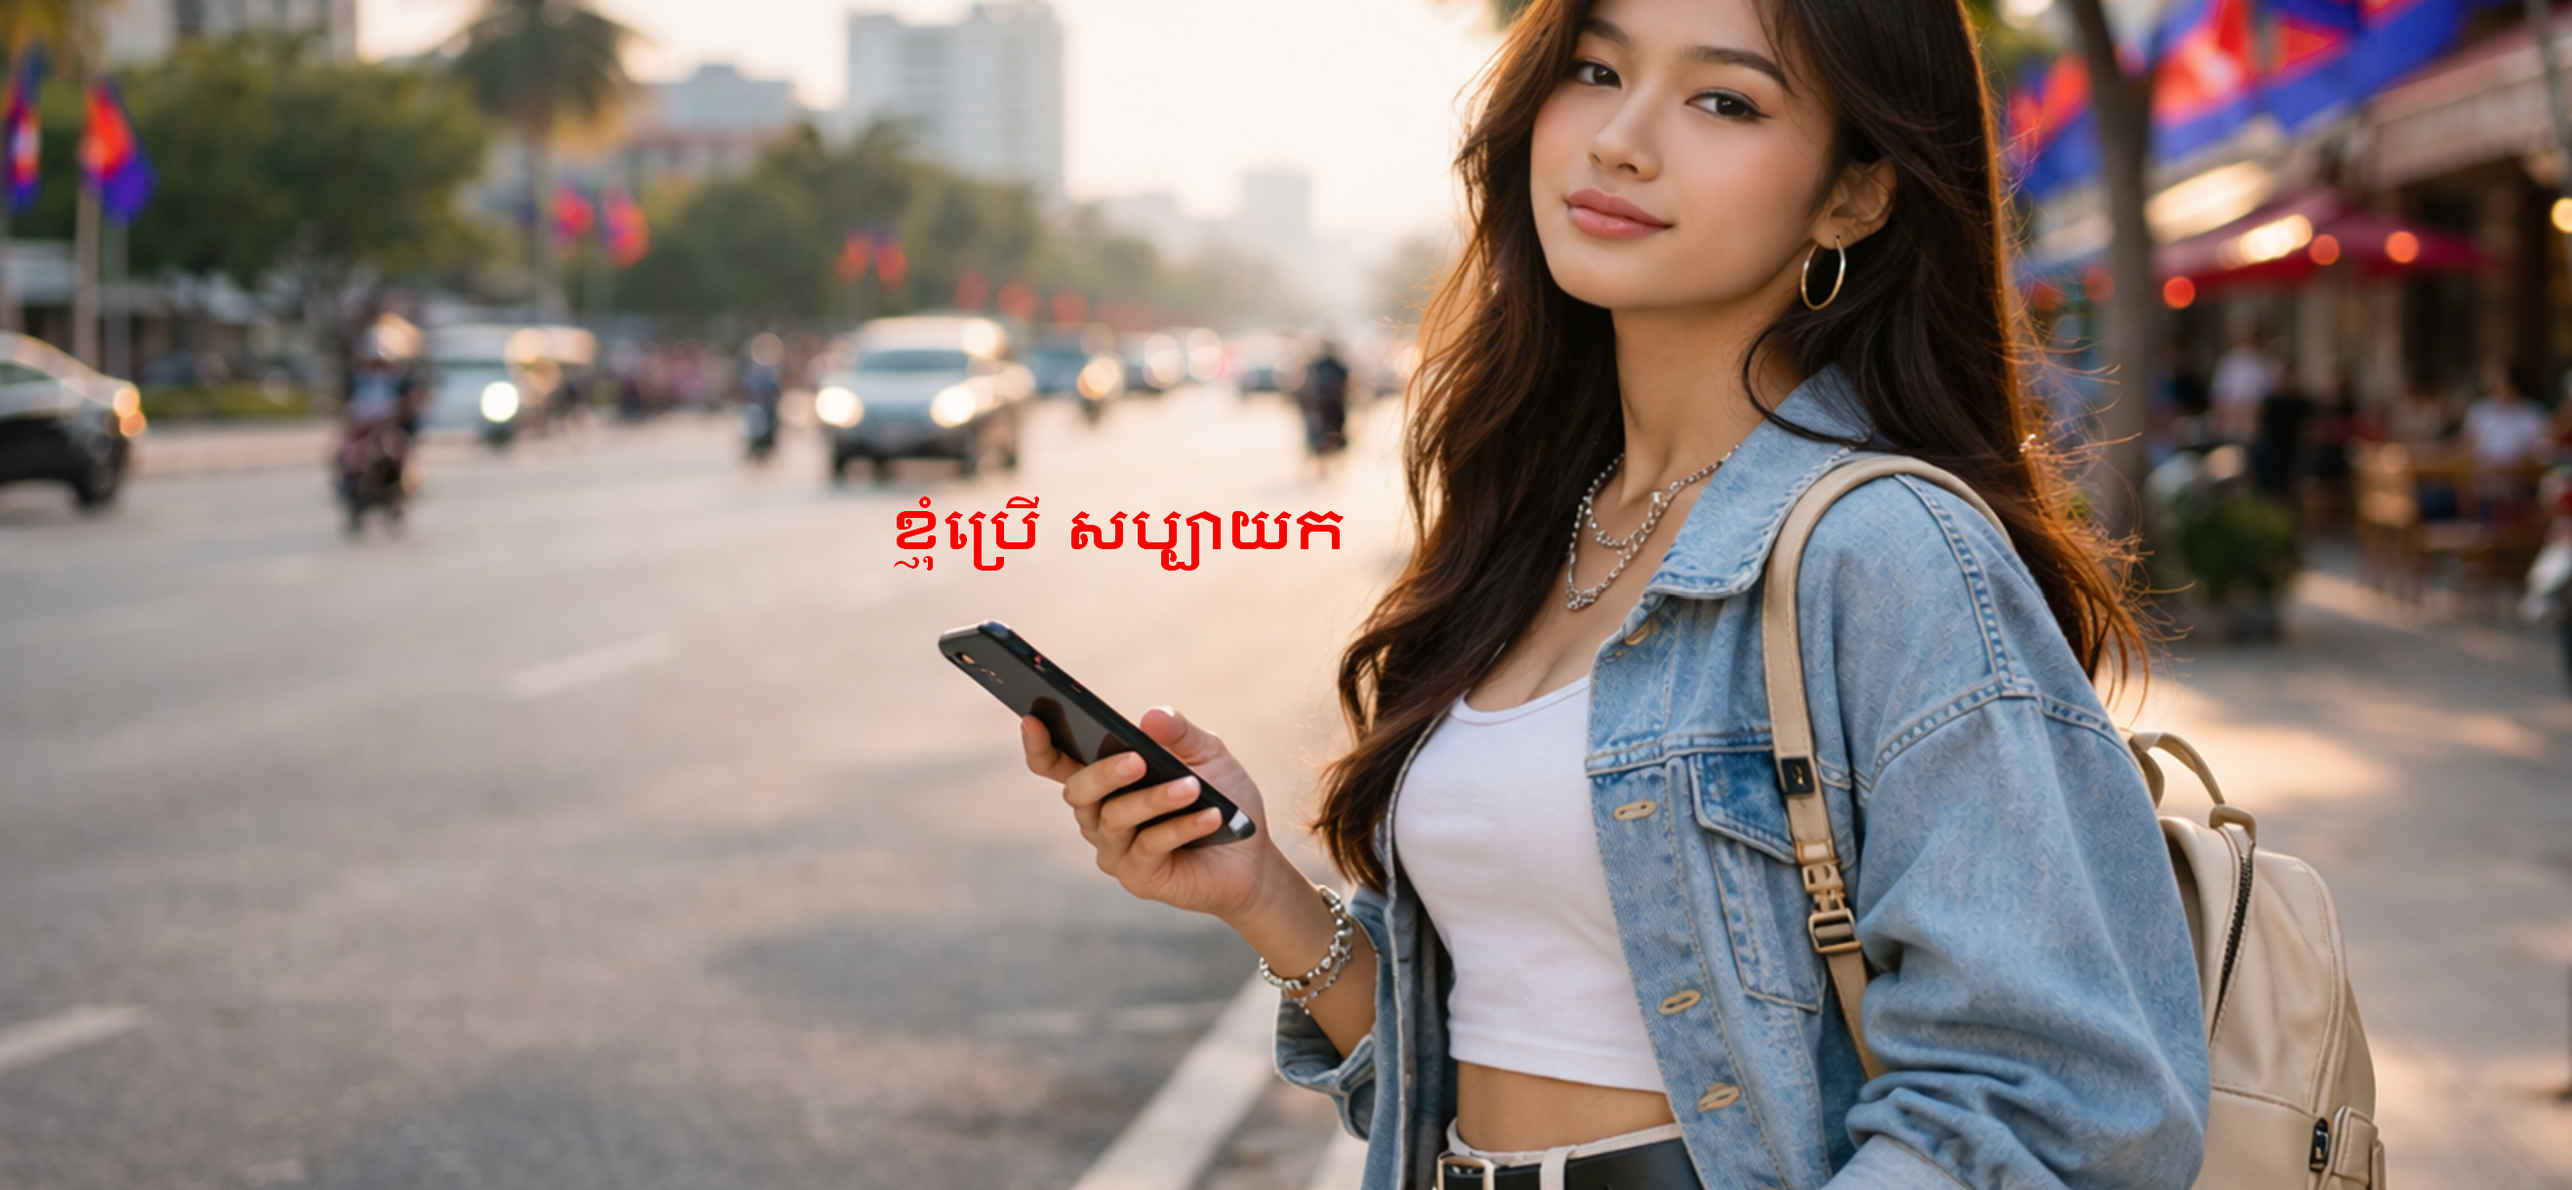
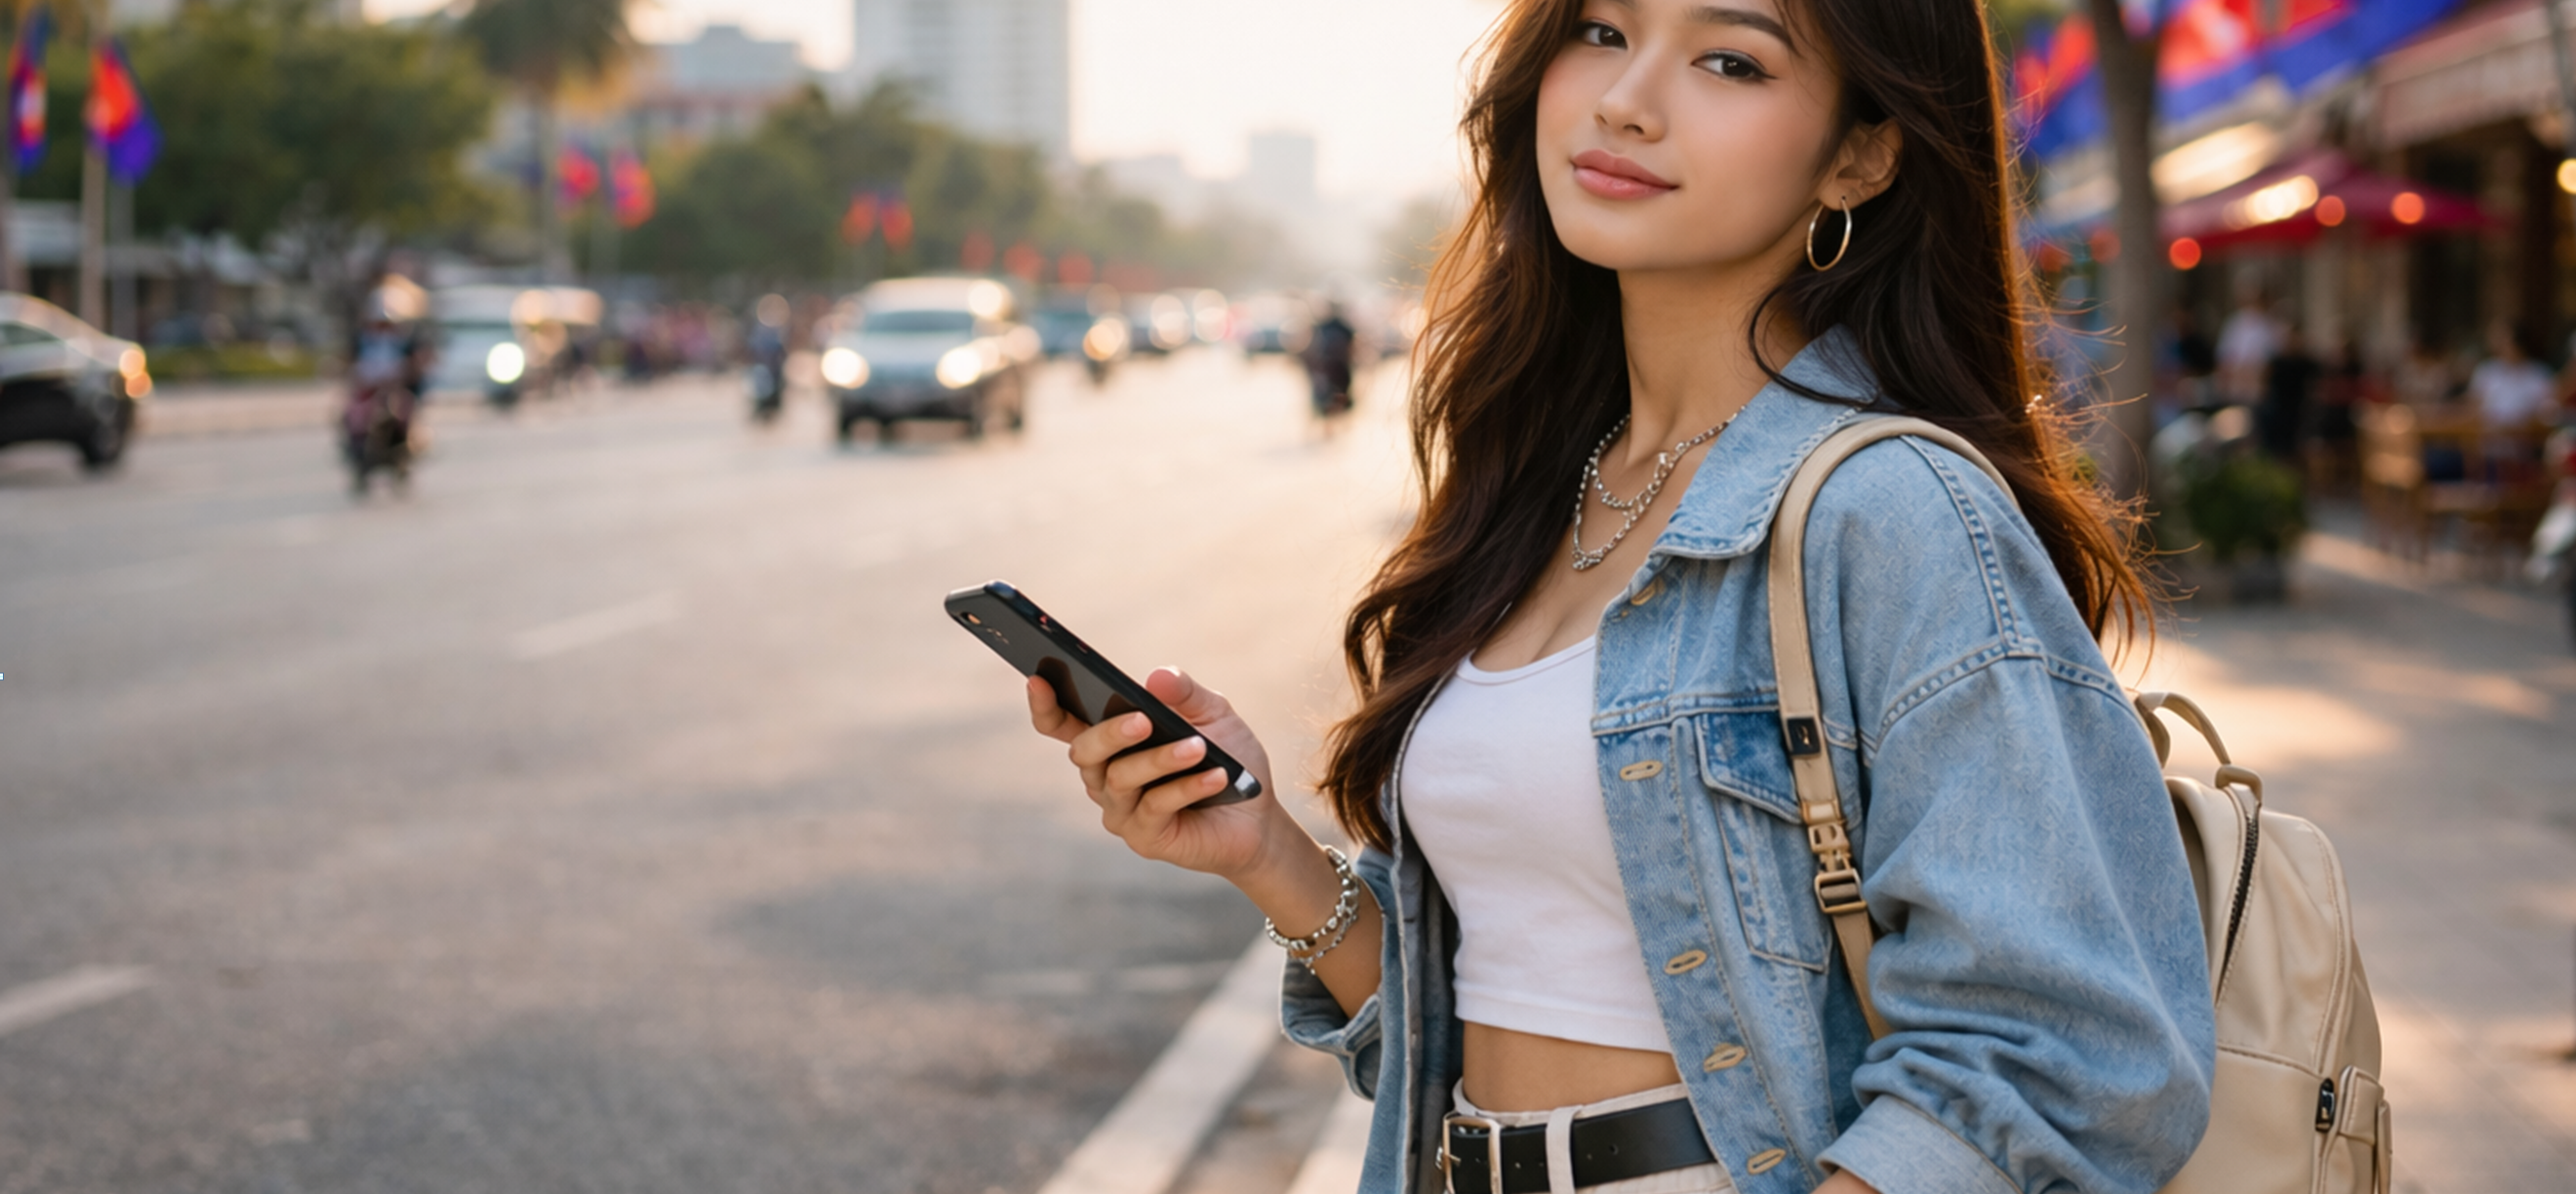
Add files via upload

diff --git a/index.html b/index.html
@@ -29,8 +29,11 @@
 </nav>
 
 <!-- Hero Image Section -->
-<section class="w-full">
+<section class="w-full relative">
     <img src="images/hero.png" alt="Sabayka Hero" class="w-full object-cover">
+    <div class="absolute" style="top: 40%; right: 50%;">
+        <p class="text-red-600 font-black text-2xl md:text-4xl" style="text-shadow: 0 1px 4px rgba(255,255,255,0.4);">ខ្ញុំប្រើ សប្បាយក</p>
+    </div>
 </section>
 
 <section id="intro" class="py-20 bg-white text-center px-6">
